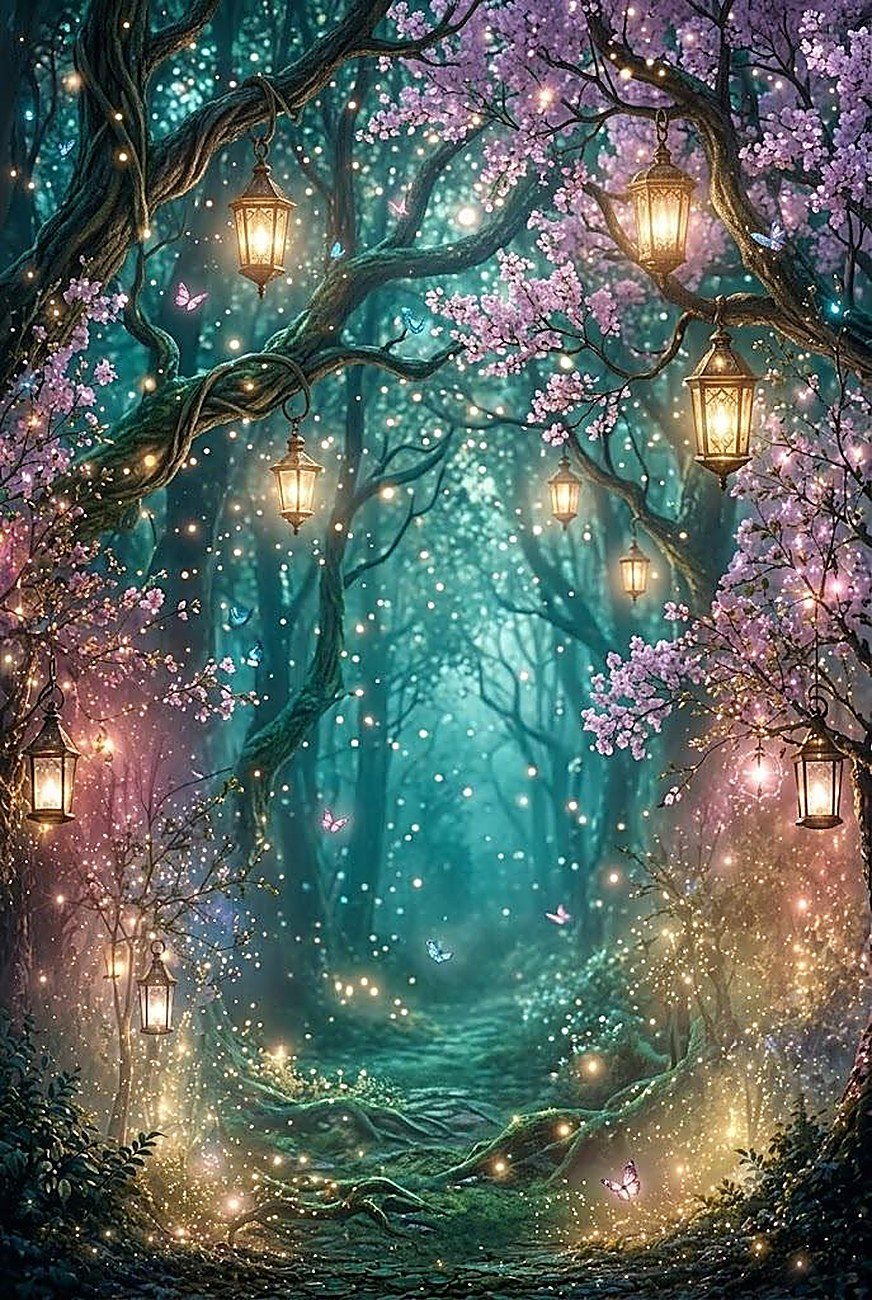
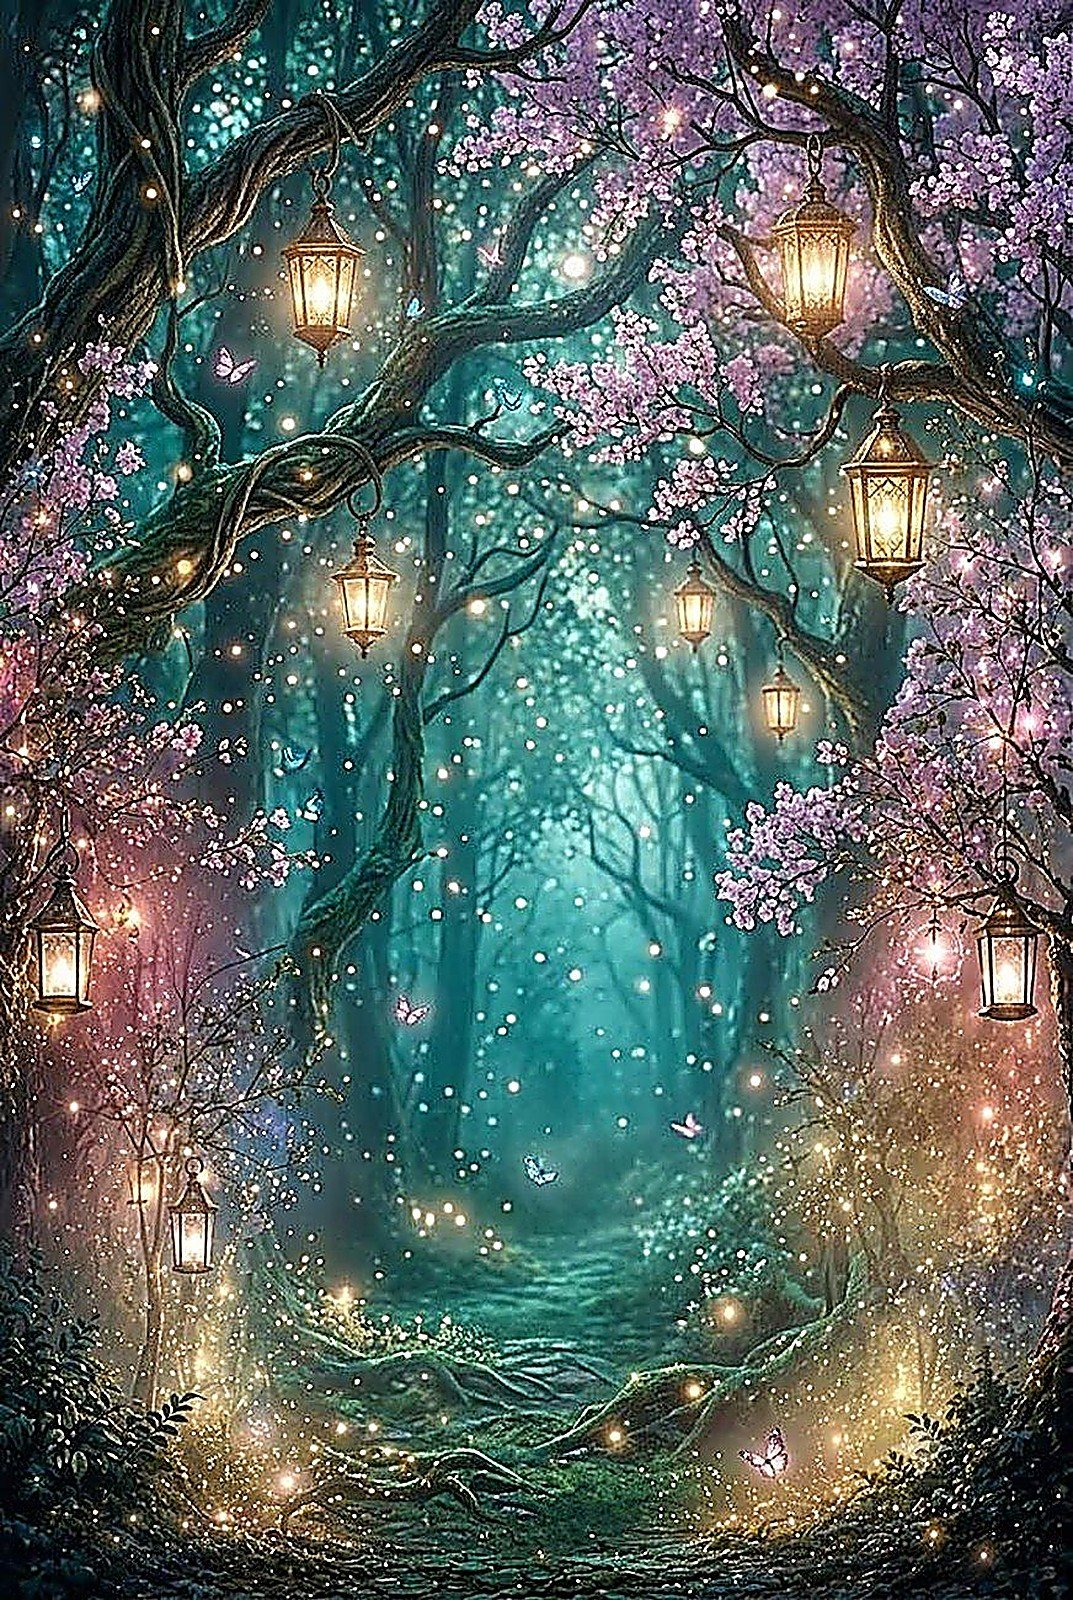
Comprimir imagenes (25MB -> 2.7MB) + sistema de capas real en toda la pagina

diff --git a/css/style.css b/css/style.css
@@ -207,9 +207,9 @@ img { max-width: 100%; }
   position: absolute; inset: 0;
   z-index: 1;
   background:
-    radial-gradient(ellipse at 25% 30%, rgba(207,161,94,0.22) 0%, transparent 55%),
-    radial-gradient(ellipse at 78% 65%, rgba(185,163,209,0.2) 0%, transparent 55%),
-    linear-gradient(180deg, rgba(14,42,31,0.6) 0%, rgba(14,42,31,0.72) 100%);
+    radial-gradient(ellipse at 25% 30%, rgba(207,161,94,0.18) 0%, transparent 55%),
+    radial-gradient(ellipse at 78% 65%, rgba(185,163,209,0.16) 0%, transparent 55%),
+    linear-gradient(180deg, rgba(14,42,31,0.32) 0%, rgba(14,42,31,0.42) 100%);
   animation: dividerGlowPulse 6s ease-in-out infinite;
 }
 @keyframes dividerGlowPulse {
@@ -259,6 +259,14 @@ img { max-width: 100%; }
     linear-gradient(180deg, rgba(6,18,16,0.88) 0%, rgba(7,20,18,0.72) 35%, rgba(6,18,16,0.9) 100%);
 }
 .section-photo-tint > *:not(.bg-photo) { position: relative; z-index: 2; }
+
+/* Variante más clara para la foto del bosque (fondo-forest), que ahora es HD
+   y no debe taparse con tanta oscuridad. Solo se usa donde aparece esa foto. */
+.section-photo-tint .bg-photo.tint-light::after {
+  background:
+    radial-gradient(ellipse 55% 40% at 50% 15%, rgba(207,161,94,0.12) 0%, transparent 60%),
+    linear-gradient(180deg, rgba(6,18,16,0.5) 0%, rgba(7,20,18,0.32) 35%, rgba(6,18,16,0.58) 100%);
+}
 
 /* Texto dorado con más brillo/contraste sobre las fotos de fondo */
 .section-photo-tint .section-tag {
@@ -356,7 +364,7 @@ img { max-width: 100%; }
 /* Fondo de bosque encantado con lámparas: nítido, sin oscurecer de más */
 .itinerary-bg .bg-photo { background-position: center 30%; }
 .itinerary-bg .bg-photo::after {
-  background: linear-gradient(180deg, rgba(6,20,20,0.25) 0%, rgba(6,20,20,0.1) 35%, rgba(6,20,20,0.55) 100%);
+  background: linear-gradient(180deg, rgba(6,20,20,0.16) 0%, rgba(6,20,20,0.06) 35%, rgba(6,20,20,0.4) 100%);
 }
 .floating-card {
   position: relative;
@@ -635,15 +643,21 @@ button {
 }
 
 .hero-text .script {
-  font-size: clamp(76px, 15vw, 160px);
+  font-size: clamp(78px, 15.5vw, 168px);
   letter-spacing: 1px;
-  background: linear-gradient(180deg, #fff8ea 0%, var(--gold-light) 42%, var(--gold) 78%, #a9793a 100%);
+  background: linear-gradient(180deg, #fff9ec 0%, var(--gold-light) 32%, var(--gold) 68%, #8a622e 100%);
   -webkit-background-clip: text;
   background-clip: text;
   -webkit-text-fill-color: transparent;
   color: var(--gold-light); /* fallback si el navegador no soporta gradient text */
-  text-shadow: 0 14px 46px rgba(0,0,0,0.55);
-  filter: drop-shadow(0 2px 10px rgba(0,0,0,0.35));
+  -webkit-text-stroke: 0.5px rgba(120,86,40,0.35);
+  text-shadow:
+    0 1px 0 rgba(255,246,225,0.5),
+    0 2px 0 rgba(196,153,88,0.55),
+    0 3px 1px rgba(150,108,50,0.5),
+    0 5px 10px rgba(0,0,0,0.4),
+    0 18px 50px rgba(0,0,0,0.55);
+  filter: drop-shadow(0 6px 16px rgba(0,0,0,0.4));
 }
 
 .hero-text p { color: var(--gold-light); letter-spacing: 3px; margin-top: 10px; font-size: 16px; text-shadow: 0 2px 10px rgba(0,0,0,0.6); }
@@ -1030,10 +1044,14 @@ button {
   overflow: hidden;
   border-radius: 6px;
   position: relative;
+  background: rgba(8,20,16,0.35);
+  display: flex;
+  align-items: center;
+  justify-content: center;
 }
 .gallery-grid .g-item:nth-child(2) { grid-column: span 2; }
-.gallery-grid img { width: 100%; height: 100%; object-fit: cover; object-position: center; transition: transform .6s ease; }
-.gallery-grid .g-item:hover img { transform: scale(1.1); }
+.gallery-grid img { width: 100%; height: 100%; object-fit: contain; object-position: center; transition: transform .6s ease; }
+.gallery-grid .g-item:hover img { transform: scale(1.06); }
 
 @media (max-width: 800px) {
   .gallery-grid { max-width: 100%; }
@@ -1172,7 +1190,7 @@ button {
   position: relative;
   justify-content: center;
 }
-#verse::before { content:''; position:absolute; inset:0; background: linear-gradient(180deg, rgba(8,28,30,0.35), rgba(6,20,20,0.6)); }
+#verse::before { content:''; position:absolute; inset:0; background: linear-gradient(180deg, rgba(8,28,30,0.2), rgba(6,20,20,0.4)); }
 #verse .content { position: relative; z-index: 2; }
 #verse .script { font-size: clamp(30px, 5vw, 48px); }
 #verse .ref { margin-top: 20px; letter-spacing: 3px; color: var(--gold); font-size: 14px; text-transform: uppercase; }

diff --git a/index.html b/index.html
@@ -6,6 +6,8 @@
 <title>Vanessa | XV Años</title>
 <meta name="description" content="Vanessa's Sweet Fifteen — Enchanted Forest">
 <link rel="stylesheet" href="css/style.css">
+<link rel="preload" as="image" href="assets/branding/xv-emblem.jpg">
+<link rel="preload" as="image" href="assets/hero/hero-main.jpg">
 </head>
 <body>
 
@@ -29,7 +31,7 @@
 
 <!-- MUSIC BUTTON -->
 <button class="music-btn" id="musicBtn" title="Play music">&#9835;</button>
-<audio id="bgMusic" loop>
+<audio id="bgMusic" loop preload="none">
   <source src="assets/audio/fantasy.mp3" type="audio/mpeg">
 </audio>
 
@@ -196,7 +198,7 @@
   <p class="section-tag">Venue</p>
   <h2 class="section-title">Enchanted <span class="script">Garden</span></h2>
   <div class="venue-photo reveal">
-    <img data-parallax src="assets/gallery/gallery-03.jpg" alt="Vanessa">
+    <img data-parallax src="assets/gallery/gallery-03.jpg" loading="lazy" decoding="async" alt="Vanessa">
   </div>
   <a class="map-btn" href="#" target="_blank">Go to Google Maps</a>
 </section>
@@ -207,12 +209,12 @@
   <h2 class="section-title">Accommo<span class="script">dations</span></h2>
   <div class="hotels-grid">
     <div class="reveal-left">
-      <div class="hotel-photo"><img src="assets/gallery/hotel1.jpg" alt="Hotel Bay Suites"></div>
+      <div class="hotel-photo"><img src="assets/gallery/hotel1.jpg" loading="lazy" decoding="async" alt="Hotel Bay Suites"></div>
       <h4>Hotel Bay Suites</h4>
       <a class="map-btn" href="#" target="_blank">Go to Google Maps</a>
     </div>
     <div class="reveal-right">
-      <div class="hotel-photo"><img src="assets/gallery/hotel2.jpg" alt="E-Central Hotel"></div>
+      <div class="hotel-photo"><img src="assets/gallery/hotel2.jpg" loading="lazy" decoding="async" alt="E-Central Hotel"></div>
       <h4>E-Central Hotel</h4>
       <a class="map-btn" href="#" target="_blank">Go to Google Maps</a>
     </div>
@@ -234,20 +236,20 @@
 
 <!-- ============ GALLERY ============ -->
 <section id="gallery" class="section section-dark section-photo-tint layer">
-  <div class="bg-photo fixed-bg" style="background-image:url('assets/fondo/fondo-forest.jpg'); background-position:center 30%;"></div>
+  <div class="bg-photo fixed-bg tint-light" style="background-image:url('assets/fondo/fondo-forest.jpg'); background-position:center 30%;"></div>
   <p class="section-tag reveal-fade">Memories</p>
   <h2 class="section-title reveal-fade">Photo <span class="script">Gallery</span></h2>
   <div class="ornament-divider reveal-fade"><span class="mark">&#10047;</span></div>
   <div class="gallery-frame reveal">
     <div class="gallery-grid">
-      <div class="g-item reveal"><img data-parallax src="assets/gallery/gallery-01.jpg" alt="Gallery 1"></div>
-      <div class="g-item reveal"><img data-parallax src="assets/gallery/gallery-02.jpg" alt="Gallery 2"></div>
-      <div class="g-item reveal"><img data-parallax src="assets/gallery/gallery-03.jpg" alt="Gallery 3"></div>
-      <div class="g-item reveal"><img data-parallax src="assets/gallery/gallery-04.jpg" alt="Gallery 4"></div>
-      <div class="g-item reveal"><img data-parallax src="assets/gallery/gallery-05.jpg" alt="Gallery 5"></div>
-      <div class="g-item reveal"><img data-parallax src="assets/gallery/gallery-06.jpg" alt="Gallery 6"></div>
-      <div class="g-item reveal"><img data-parallax src="assets/gallery/gallery-07.jpg" alt="Gallery 7"></div>
-      <div class="g-item reveal"><img data-parallax src="assets/gallery/gallery-08.jpg" alt="Gallery 8"></div>
+      <div class="g-item reveal"><img data-parallax src="assets/gallery/gallery-01.jpg" loading="lazy" decoding="async" alt="Gallery 1"></div>
+      <div class="g-item reveal"><img data-parallax src="assets/gallery/gallery-02.jpg" loading="lazy" decoding="async" alt="Gallery 2"></div>
+      <div class="g-item reveal"><img data-parallax src="assets/gallery/gallery-03.jpg" loading="lazy" decoding="async" alt="Gallery 3"></div>
+      <div class="g-item reveal"><img data-parallax src="assets/gallery/gallery-04.jpg" loading="lazy" decoding="async" alt="Gallery 4"></div>
+      <div class="g-item reveal"><img data-parallax src="assets/gallery/gallery-05.jpg" loading="lazy" decoding="async" alt="Gallery 5"></div>
+      <div class="g-item reveal"><img data-parallax src="assets/gallery/gallery-06.jpg" loading="lazy" decoding="async" alt="Gallery 6"></div>
+      <div class="g-item reveal"><img data-parallax src="assets/gallery/gallery-07.jpg" loading="lazy" decoding="async" alt="Gallery 7"></div>
+      <div class="g-item reveal"><img data-parallax src="assets/gallery/gallery-08.jpg" loading="lazy" decoding="async" alt="Gallery 8"></div>
     </div>
   </div>
 </section>
@@ -260,7 +262,7 @@
   <div class="ornament-divider reveal-fade"><span class="mark">&#10047;</span></div>
   <p class="hashtag reveal-fade">#Vanessa2025XV</p>
   <div class="qr-wrap reveal">
-    <img src="assets/branding/qr-demo.png" alt="QR Code">
+    <img src="assets/branding/qr-demo.png" loading="lazy" decoding="async" alt="QR Code">
     <p class="qr-caption">Scan to upload your photos</p>
   </div>
 </section>
@@ -294,16 +296,16 @@
   <div class="story-track">
     <div class="story-slide active">
       <div class="story-photos">
-        <img src="assets/story/story-01.jpg" alt="Story 1">
-        <img src="assets/gallery/gallery-05.jpg" alt="Story 1b">
+        <img src="assets/story/story-01.jpg" loading="lazy" decoding="async" alt="Story 1">
+        <img src="assets/gallery/gallery-05.jpg" loading="lazy" decoding="async" alt="Story 1b">
       </div>
       <h4>The Journey Begins</h4>
       <p>A childhood full of dreams</p>
     </div>
     <div class="story-slide">
       <div class="story-photos">
-        <img src="assets/story/story-02.jpg" alt="Story 2">
-        <img src="assets/gallery/gallery-06.jpg" alt="Story 2b">
+        <img src="assets/story/story-02.jpg" loading="lazy" decoding="async" alt="Story 2">
+        <img src="assets/gallery/gallery-06.jpg" loading="lazy" decoding="async" alt="Story 2b">
       </div>
       <h4>Sweet Fifteen</h4>
       <p>September 27th, 2025</p>
@@ -360,7 +362,7 @@
 <footer class="layer">
   <p class="script">Vanessa</p>
   <p>XV AÑOS · SEPTEMBER 27, 2025</p>
-  <img class="brand-logo" src="assets/branding/marca.png" alt="Invitaciones4you">
+  <img class="brand-logo" src="assets/branding/marca.png" loading="lazy" decoding="async" alt="Invitaciones4you">
 </footer>
 
 <script src="js/script.js"></script>